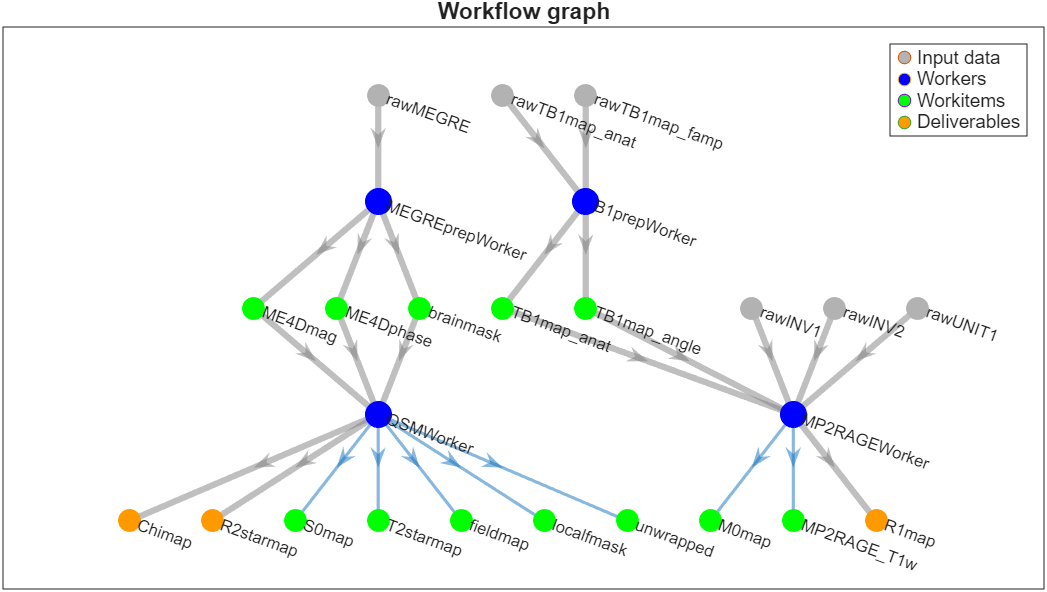
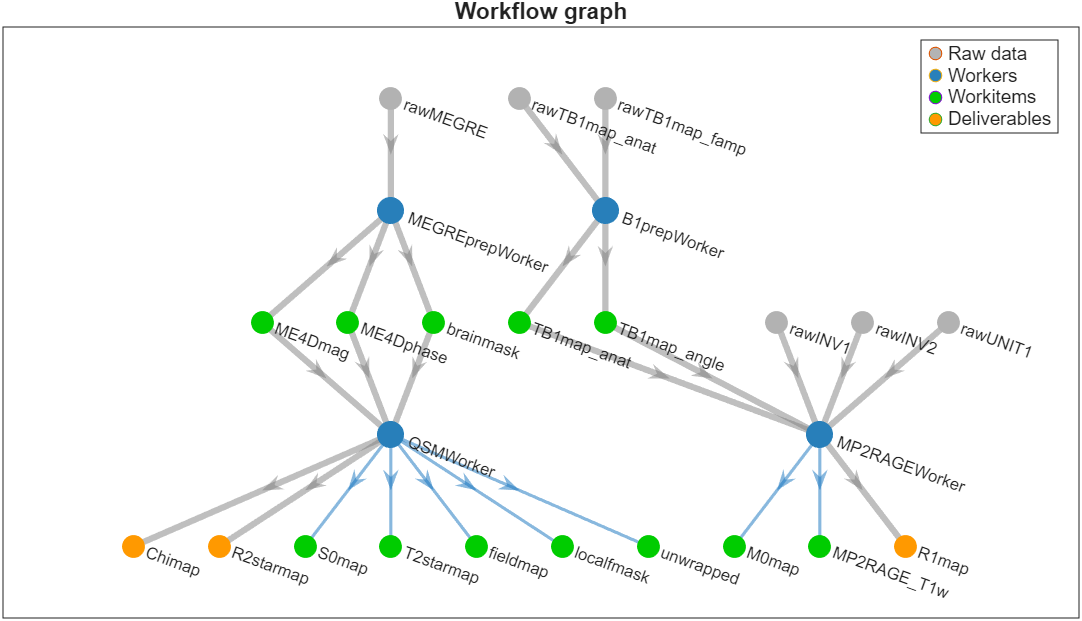
Save the workflow graph + minor doctweaks

diff --git a/+qb/+GUI/draw_workflow.m b/+qb/+GUI/draw_workflow.m
@@ -19,7 +19,7 @@ arguments
 end
 
 if isempty(fieldnames(team))
-    disp('⚠  No team data found, cannot draw workflow graph')
+    disp('⚠  No team data found, cannot draw workflow graph')  % Spaces are added to deal with the wide Unicode character
     return
 end
 
@@ -58,7 +58,7 @@ for i = 1:nWorkers
 end
 
 % Build node lists for the graph (workers come first, then workitems)
-nodes = [workerNames workitems];
+nodes = ["  " + workerNames, " " + workitems];  % Add spaces as node labels overlap with markers in the digraph plot
 
 % Create the workflow graph
 workflow = digraph(edges(:,1), edges(:,2), [], nodes);
@@ -72,9 +72,9 @@ for d = deliverableNodeIdx
 end
 
 % Node types: 1=worker(blue), 2=workitem(green), 3=deliverable(orange), 4=raw/deriv(grey)
-nodeTypes = ones(size(nodes));
-nodeTypes(nWorkers+1:end) = 2;
-nodeTypes(deliverableNodeIdx) = 3;
+nodeTypes                                                           = ones(size(nodes));
+nodeTypes(nWorkers+1:end)                                           = 2;
+nodeTypes(deliverableNodeIdx)                                       = 3;
 nodeTypes(nWorkers + find(startsWith(workitems, ["raw", "deriv"]))) = 4;
 
 % Plot the workflow graph
@@ -85,21 +85,26 @@ H = plot(workflow, ...
          NodeFontSize = 8, ...
          LineWidth    = 1.5, ...
          ArrowSize    = 10, ...
-         Interpreter  = 'none');
-colormap([0 0 1; 0 1 0; 1 0.6 0; 0.7 0.7 0.7])  % blue, green, orange, grey
+         Interpreter  = 'none', ...
+         Tag          = 'workflow_graph');
+blue   = [0.16 0.5 0.73];   % = RTD blue #2980B9
+green  = [0 0.8 0];
+orange = [1 0.6 0];
+grey   = [0.7 0.7 0.7];
+colormap([blue; green; orange; grey])
 title('Workflow graph')
 
 % Highlight edges in deliverable subtrees
 highlight(H, ...
           edges(inDeliverableTree(edges(:, 2)), 1), ...
           edges(inDeliverableTree(edges(:, 2)), 2), ...
-          EdgeColor=[0.5 0.5 0.5], LineWidth=3)
+          EdgeColor=[0.5 0.5 0.5], LineWidth=3)     % highlight makes the specified EdgeColor lighter
 
 % Add a custom legend
 hold on
-plot(NaN, NaN, 'o', MarkerFaceColor=[0.7 0.7 0.7])  % grey
-plot(NaN, NaN, 'o', MarkerFaceColor='blue')
-plot(NaN, NaN, 'o', MarkerFaceColor='green')
-plot(NaN, NaN, 'o', MarkerFaceColor=[1 0.6 0])      % orange
-legend('', 'Input data', 'Workers', 'Workitems', 'Deliverables', Location='northeast')
+plot(NaN, NaN, 'o', MarkerFaceColor=grey)
+plot(NaN, NaN, 'o', MarkerFaceColor=blue)
+plot(NaN, NaN, 'o', MarkerFaceColor=green)
+plot(NaN, NaN, 'o', MarkerFaceColor=orange)
+legend('', 'Raw data', 'Workers', 'Workitems', 'Deliverables', Location='best')
 hold off

diff --git a/+qb/+workers/Manager.m b/+qb/+workers/Manager.m
@@ -116,9 +116,13 @@ methods
 
         end
 
-        % Plot the team workflow graph
+        % Plot and save the team workflow graph
         if ~recurse_
             qb.GUI.draw_workflow(obj.team, obj.coord.deliverables)
+            H = findall(groot, Tag='workflow_graph');
+            if isvalid(H)
+                saveas(H(1), regexprep(obj.coord.workflowfile, "(.*)\.mat$", "$1.png"))
+            end
         end
 
     end
@@ -284,7 +288,7 @@ methods
 
                 % Ask the worker to fetch the deliverable for this subject
                 args = {obj.coord.BIDS, subject, obj.coord.config, obj.coord.workdir, obj.coord.outputdir, obj.team, obj.force};
-                fprintf('▶  Manager dispatched %s to make the "%s" deliverable for %s/%s\n', name, product, subject.name, subject.session)
+                fprintf('▶  Manager dispatched %s to make the "%s" deliverable for %s/%s\n', name, product, subject.name, subject.session)  % Spaces are added to deal with the wide Unicode character
                 if obj.coord.config.General.useHPC.value
                     jobIDs(obj.sub_ses(subject)) = qsubfeval(Worker, args{:}, product, obj.coord.config.General.HPC.value{:}, 'batch', batch);  % NB: deliverables are passed directly instead of calling fetch()
                 elseif obj.coord.config.General.useParallel.value

diff --git a/+qb/QuIDBBIDS.m b/+qb/QuIDBBIDS.m
@@ -111,11 +111,11 @@ methods
         config = get_config(configfile);    % Cannot call obj.get_config directly because obj is not yet fully constructed / the superclass has not yet been called
 
         % Initialize the BIDS layout and call the superclass constructor
-        BIDS   = bids.layout(char(bidsdir), use_schema        = true, ...
-                                            index_derivatives = false, ...
-                                            filter            = config.General.BIDS.include.value, ...
-                                            tolerant          = true, ...
-                                            verbose           = true);
+        BIDS = bids.layout(char(bidsdir), use_schema        = true, ...
+                                          index_derivatives = false, ...
+                                          filter            = config.General.BIDS.include.value, ...
+                                          tolerant          = true, ...
+                                          verbose           = true);
         obj@qb.workers.Coordinator(BIDS, outputdir, workdir, configfile)
 
         % Add project metadata to the output folders

diff --git a/+qb/+workers/Coordinator.m b/+qb/+workers/Coordinator.m
@@ -132,7 +132,7 @@ methods
         for workitem = worker.needs
             if startsWith(workitem, 'raw') && isempty(bids.query(obj.BIDS, 'data', worker_.bidsfilter.(workitem)))
                 has_data = false;
-                fprintf('⚠  No "%s" input data found for %s\n', workitem, worker.name)
+                fprintf('⚠  No "%s" input data found for %s\n', workitem, worker.name) % Spaces are added to deal with the wide Unicode character
                 return
             end
         end

diff --git a/+qb/+utils/copybfile.m b/+qb/+utils/copybfile.m
@@ -26,7 +26,7 @@ end
 
 % Copy the data and metadata to the destination
 if isfile(target.path) && ~force
-    fprintf('⚠ File already exists at destination: %s. Use force=true to overwrite\n', target.path)
+    fprintf('⚠  File already exists at destination: %s. Use force=true to overwrite\n', target.path)   % Spaces are added to deal with the wide Unicode character
 else
     [~,~] = mkdir(fileparts(target.path));
     copyfile(source.path, target.path)

diff --git a/+qb/version.m b/+qb/version.m
@@ -26,7 +26,7 @@ function [ver, latest] = version()
                 latest = erase(rel.tag_name, "v"|"V");
             end
         catch ME
-            fprintf('⚠ Could not retrieve the latest release version:\n%s', ME.message)
+            fprintf('⚠  Could not retrieve the latest release version:\n%s', ME.message)   % Spaces are added to deal with the wide Unicode character
             latest = '0.0.0-unknown';
         end
     end

diff --git a/docs/architecture.rst b/docs/architecture.rst
@@ -6,6 +6,7 @@ Manager, Worker, and Controller — designed to minimize workflow and BIDS-relat
 implementing new methods in Worker modules, as illustrated below.
 
 .. figure:: ./_static/workflow_diagram.png
+   :width: 80%
 
    QuIDBBIDS Workflow Architecture. The user specifies the data and desired workitems (``4*`` and ``6*``)
    to the coordinator. The coordinator inspects the worker pool, interacts with the user to edit settings
@@ -36,11 +37,13 @@ Below is a real-world workflow example, illustrating how the right-hand side of 
 materializes in practice.
 
 .. figure:: ./_static/workflow_graph.png
-   :width: 90%
 
-   A QuIDBBIDS workflow instantiation with user-specified deliverables ``Chimap``, ``R2starmap``, and ``R1map``
-   that are collaboratively produced by a team of workers (blue nodes). Raw input data (green nodes prefixed with
-   ``raw*``, e.g., ``rawMEGRE``) appear at the top, and the output deliverables (orange nodes) at the bottom.
+   A basic workflow instantiation with user-specified deliverables ``Chimap``, ``R2starmap``, and ``R1map``
+   that are collaboratively produced by a team of workers (blue nodes). Raw input data (grey nodes prefixed with
+   ``raw*``, e.g., ``rawMEGRE``) appear at the top, and the output deliverables (orange nodes) at the bottom. The
+   raw data are read from the user-provided BIDS dataset, while the intermediate workitems (green nodes) are
+   saved in the derivative ``QuIDBBIDS_work`` folder. Finally, the specified output deliverables are stored in the
+   ``QuIDBBIDS`` derivative folder.
 
 The QuIDBBIDS workflow is designed to be modular and flexible, allowing users to easily customize and extend
 the processing workflow by adding new Worker modules or customizing existing ones. This architecture resembles

diff --git a/docs/screenshots.rst b/docs/screenshots.rst
@@ -5,7 +5,7 @@ QuIDBBIDS architecture
 ----------------------
 
 .. figure:: ./_static/workflow_diagram.png
-   :width: 90%
+   :width: 80%
 
    Overview of the QuIDBBIDS workflow. The user specifies the data and desired workitems (``4*`` and ``6*``)
    to the coordinator. The coordinator inspects the worker pool, interacts with the user to edit settings
@@ -14,10 +14,9 @@ QuIDBBIDS architecture
    producing workitems ``1–6``. Finally, the manager initiates a controller to verify successful completion.
 
 .. figure:: ./_static/workflow_graph.png
-   :width: 90%
 
    A QuIDBBIDS workflow instantiation with user-specified deliverables ``Chimap``, ``R2starmap``, and ``R1map``
-   that are collaboratively produced by a team of workers (blue nodes). Raw input data (green nodes prefixed with
+   that are collaboratively produced by a team of workers (blue nodes). Raw input data (grey nodes prefixed with
    ``raw*``, e.g., ``rawMEGRE``) appear at the top, and the output deliverables (orange nodes) at the bottom.
 
 Configuration editor
@@ -33,7 +32,7 @@ QuIDBBIDS data
 --------------
 
 .. figure:: ./_static/BIDS_data.png
-   :width: 80%
+   :width: 75%
 
    Example of the raw input (bottom) and the corresponding QuIDBBIDS output data structure (top), showing
    how file and directory names, data formats, and metadata sidecar files are organized in accordance with the

diff --git a/docs/structure.rst b/docs/structure.rst
@@ -11,9 +11,9 @@ which processed data is stored. QuIDBBIDS uses this folder to store its two outp
 2. ``./derivatives/QuIDBBIDS``. In here all final output files (deliverables) are stored, organized according 
    to BIDS derivatives specification. This folder should be kept after processing is finished.
 
-Next to the output files, in the ``QuIDBBIDS`` folder you can find two subfolders with additional data:
+Next to the output files, in the ``QuIDBBIDS`` folder you can find two subfolders with meta data:
 
-1. ``code/config.json``. A copy of the default configuration file with the actual settings that 
+1. ``code``. A (copy of the default) configuration and workflow files with the actual settings that 
    were used to produce the data. This is important for reproducibility of results.
 2. ``logs``. A folder that contains worker specific log files, including error messages if any 
    issues were encountered.
